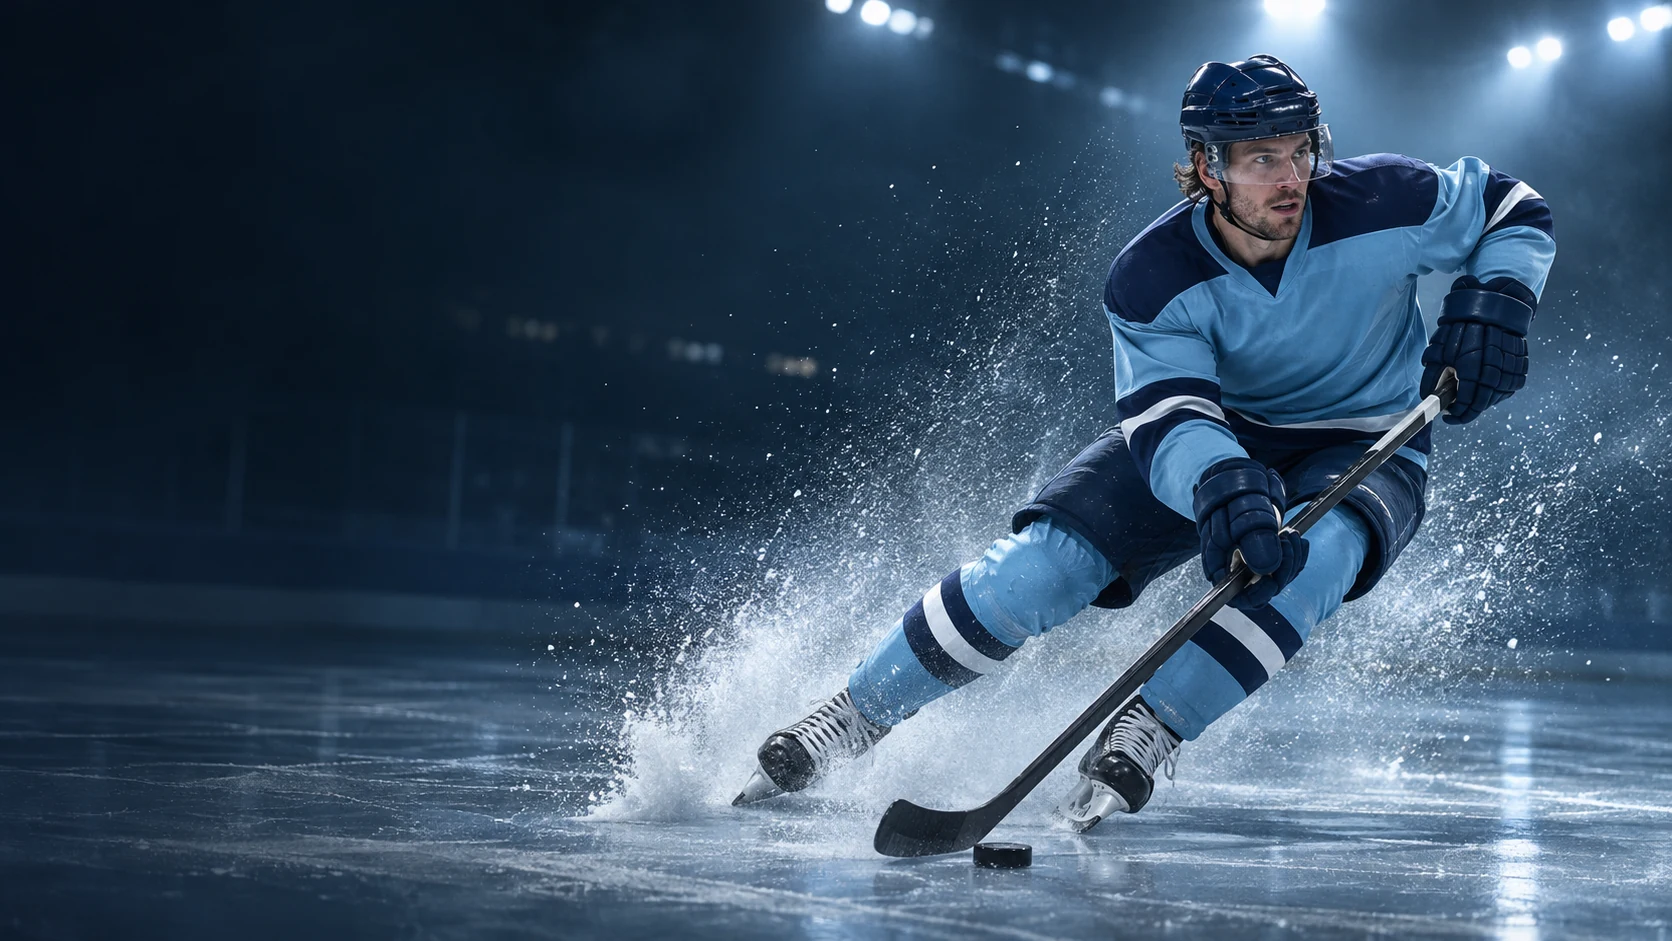
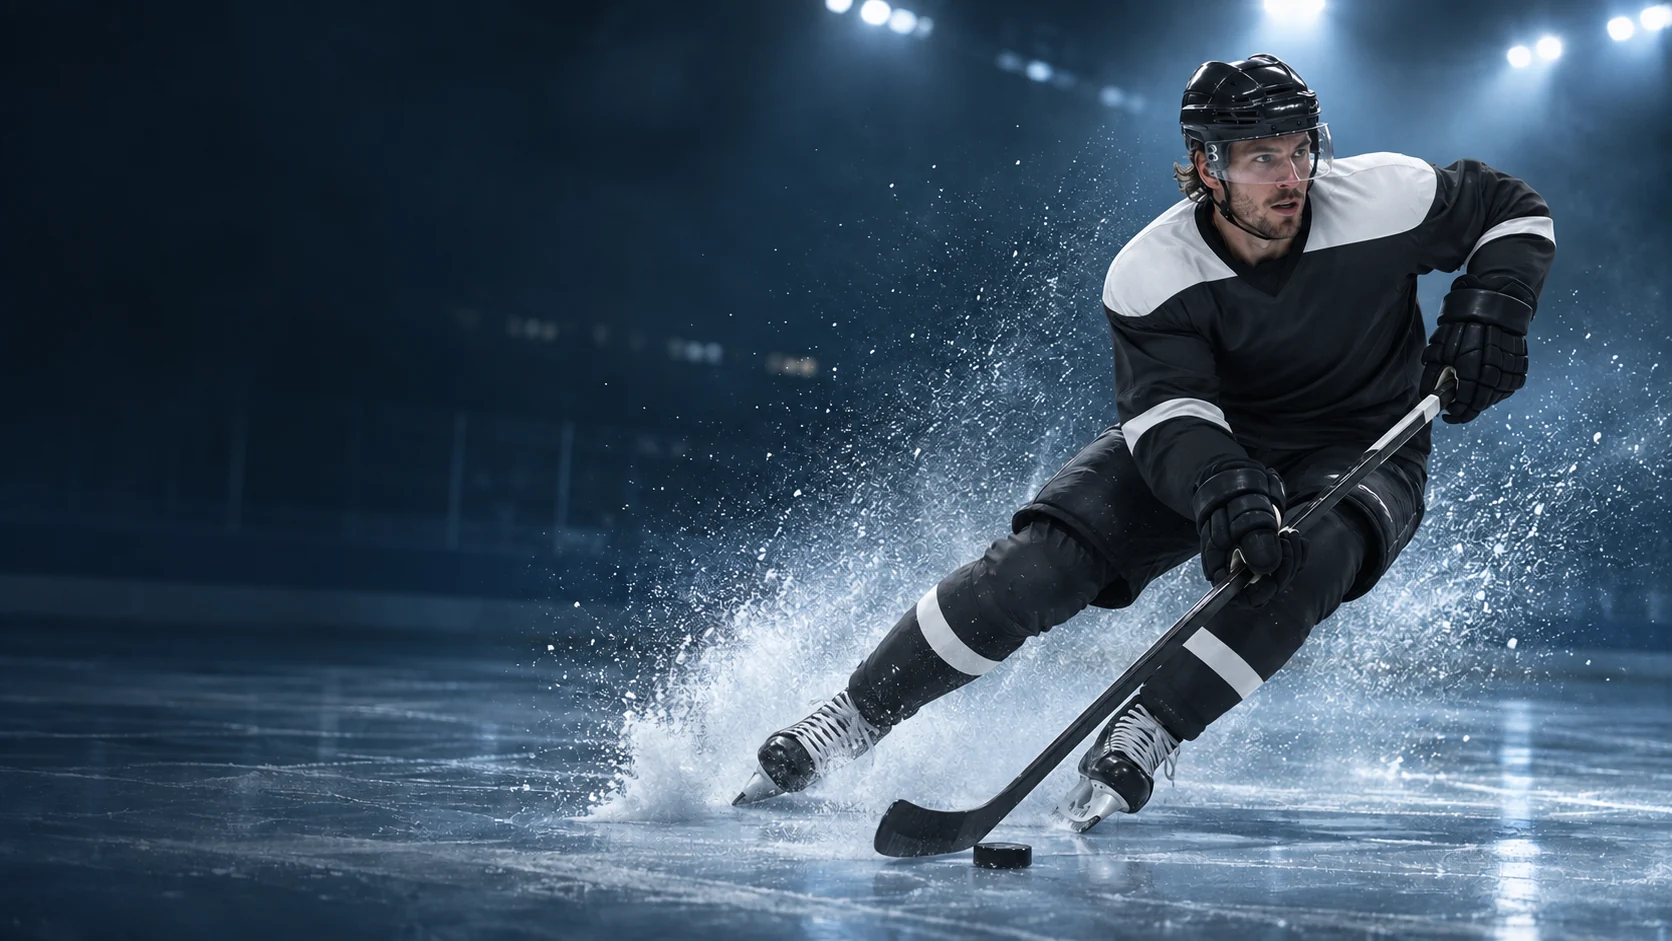
Refresh the basketball cover and refine the hockey uniform

diff --git a/public/index.html b/public/index.html
@@ -23,8 +23,8 @@
 <main id="main">
   <section class="hero" aria-label="Featured sports stories" aria-roledescription="carousel">
     <div class="hero-stage">
-    <div class="hero-slide is-active" role="group" aria-roledescription="slide" aria-label="Above the rim">
-    <img src="/images/hero.webp" alt="A basketball player rising toward the hoop in a dark arena" fetchpriority="high">
+    <div class="hero-slide hero-slide--right-framed is-active" role="group" aria-roledescription="slide" aria-label="Above the rim">
+    <img src="/images/hero-basketball.webp" alt="A basketball player rising toward the hoop in a dark arena" fetchpriority="high">
     <div class="wrap hero-inner">
       <div class="hero-copy">
         <p class="kicker"><span></span> THE COVER STORY</p>
